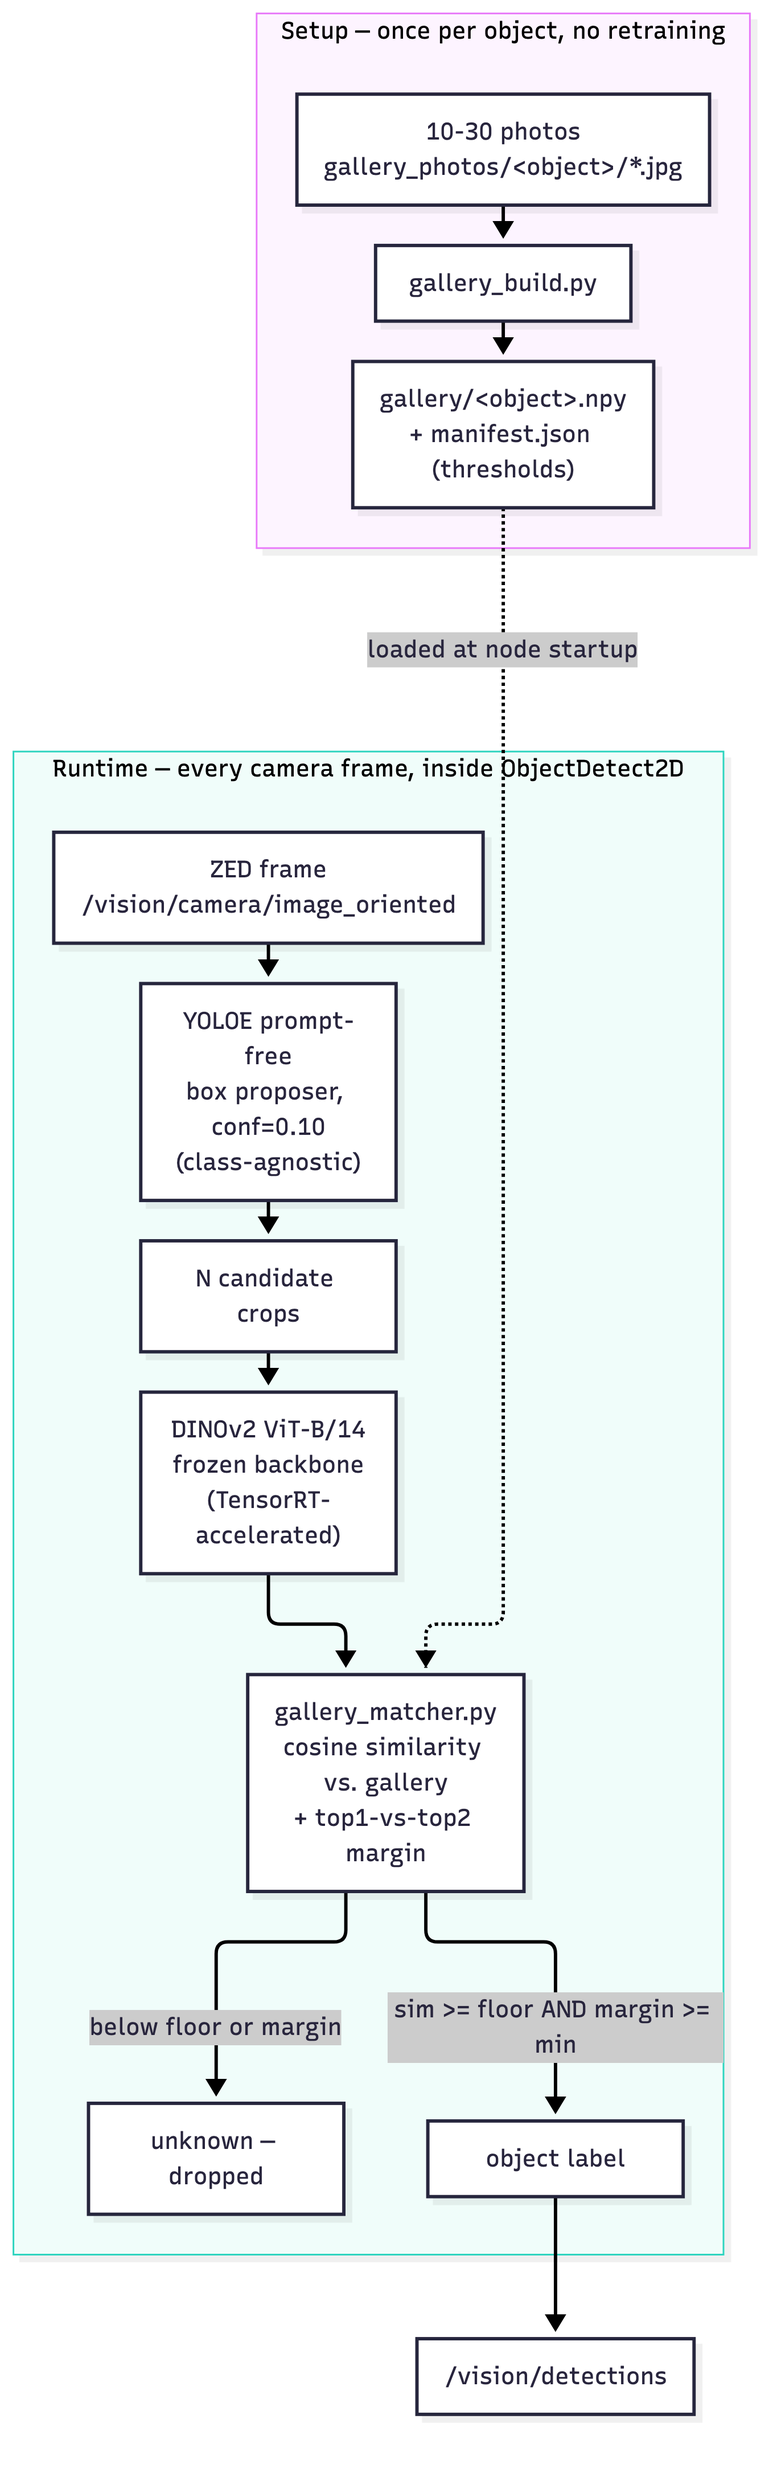
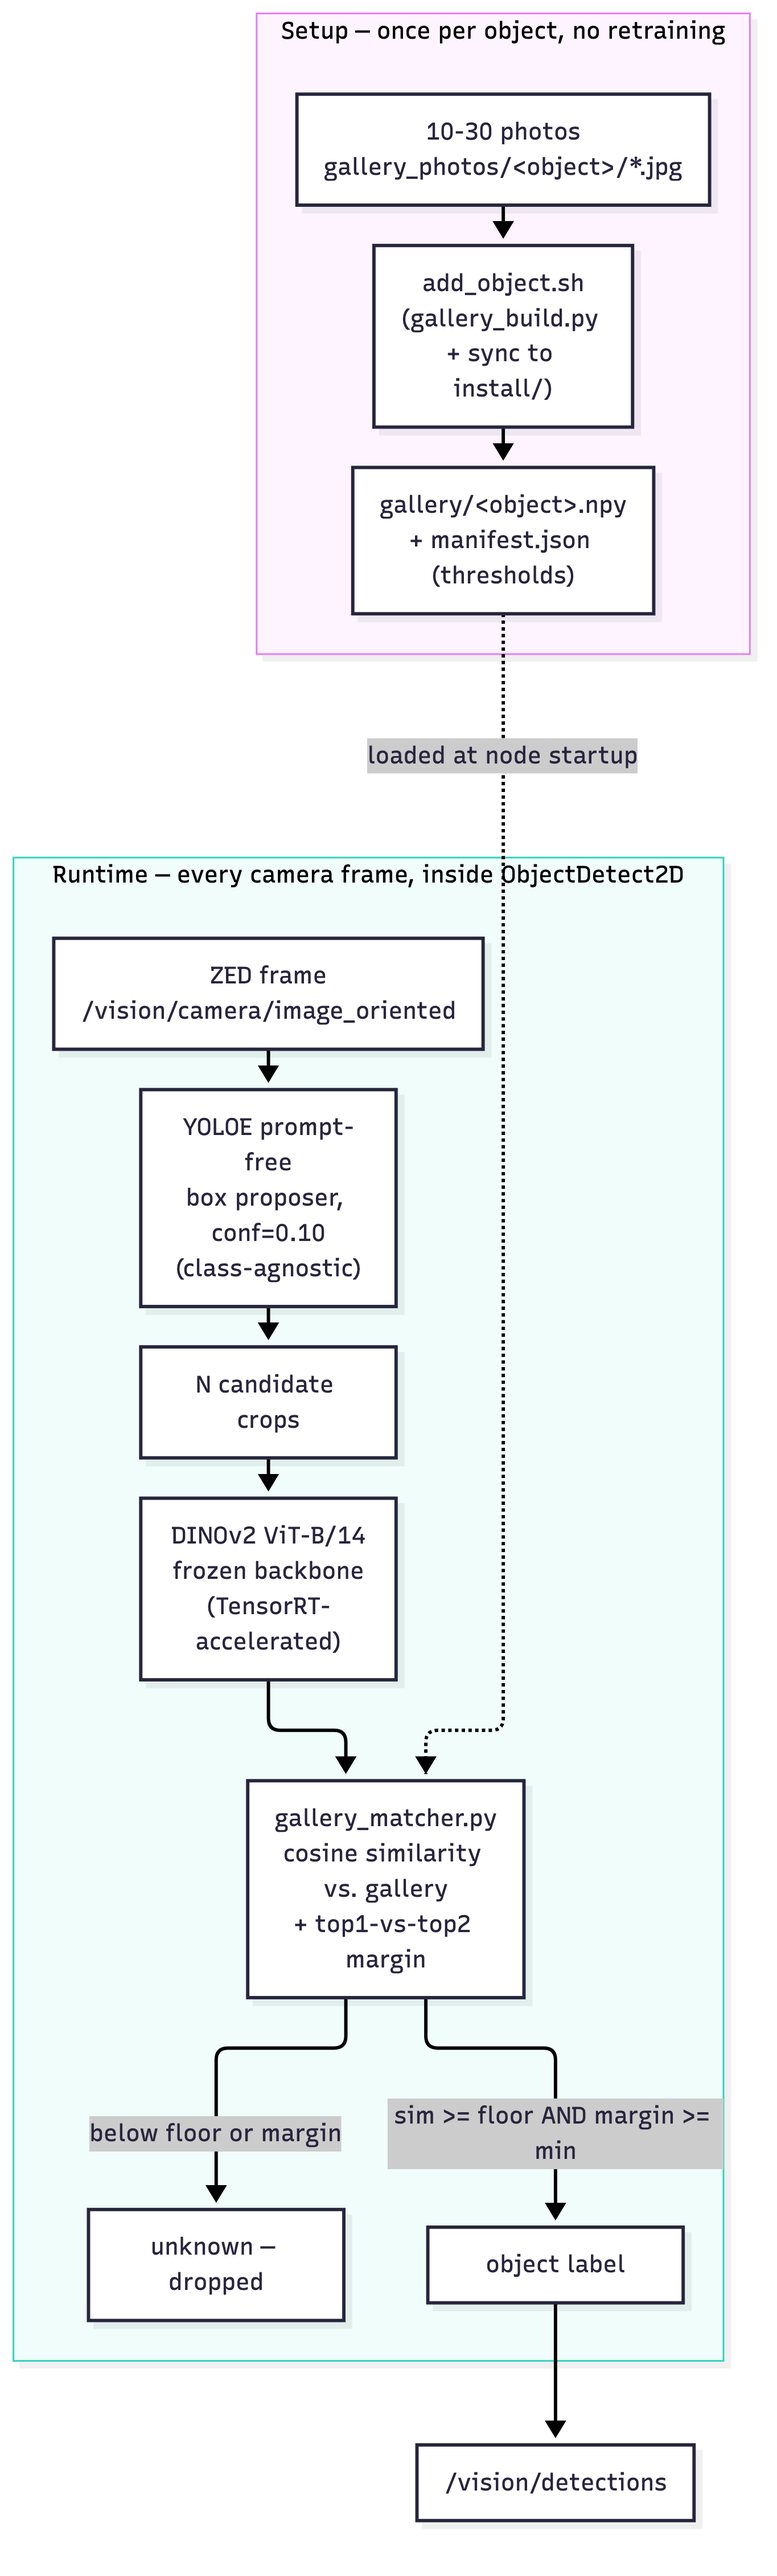
add .sh and doc

diff --git a/vision/benchmarks/embedding_gallery/README.md b/vision/benchmarks/embedding_gallery/README.md
@@ -24,7 +24,7 @@ every camera frame:
 flowchart TD
     subgraph SETUP["Setup — once per object, no retraining"]
         direction TB
-        P["10-30 photos<br/>gallery_photos/&lt;object&gt;/*.jpg"] --> GB["gallery_build.py"]
+        P["10-30 photos<br/>gallery_photos/&lt;object&gt;/*.jpg"] --> GB["add_object.sh<br/>(gallery_build.py + sync to install/)"]
         GB --> NPY["gallery/&lt;object&gt;.npy<br/>+ manifest.json (thresholds)"]
     end
 
@@ -210,30 +210,30 @@ Steps:
 mkdir -p gallery_photos/<object_name>
 # ...copy 10-30 photos in (see "Capture conditions" above)...
 
-python3 gallery_build.py \
-  --object <object_name> \
-  --photos "gallery_photos/<object_name>/*.jpg" \
-  --gallery-dir gallery/
+./add_object.sh <object_name>
+# equivalent to: --photos "gallery_photos/<object_name>/*.jpg"
 ```
 
-No `--backbone` needed — it defaults to whatever `MODEL_CONFIGS["embedding_gallery"]["backbone"]`
-in `registry.py` uses (single source of truth), and refuses to write (rather
-than silently corrupt the gallery) if the new object's embedding dimension
-doesn't match the rest — the failure mode that motivated that guard was
-exactly a mismatched `--backbone` flag. `embedding_gallery` is already in
-`config/parameters.yaml`'s `models:` list, so a plain node restart is all
-that's needed after this — no code change, no rebuild of anything *code*-
-related.
+`add_object.sh` builds the gallery entry **and** syncs it into `install/` in
+one step (see the gotcha below for why that second part is required — skip
+it and the new object silently never shows up). It does not restart the
+node; that part is still manual, on purpose. No `--backbone` needed — it
+defaults to `MODEL_CONFIGS["embedding_gallery"]["backbone"]` in
+`registry.py` (single source of truth), and refuses to write if the new
+object's embedding dimension doesn't match the rest. `embedding_gallery` is
+already in `config/parameters.yaml`'s `models:` list, so a plain node
+restart is all that's needed afterward — no code change, no rebuild.
 
-**Critical gotcha (found the hard way, 2026-09-28): `colcon build` does NOT
-re-sync `gallery/` into `install/`.** A ROS2 ament_python package's
-installed copy (`install/object_detector_2d/lib/object_detector_2d/detectors/gallery/`)
-is populated once, whenever `gallery/` last happened to exist at build time,
-and colcon has no reason to know a gitignored runtime data directory changed
-— it only tracks source `.py` files. Running `gallery_build.py` against the
-**source** tree's `gallery/` (`vision/packages/object_detector_2d/scripts/detectors/gallery/`)
-therefore has **zero effect** on a node running from `install/` until that
-directory is manually re-synced:
+**Critical gotcha `add_object.sh` exists to paper over (found the hard way,
+2026-09-28): `colcon build` does NOT re-sync `gallery/` into `install/`.** A
+ROS2 ament_python package's installed copy
+(`install/object_detector_2d/lib/object_detector_2d/detectors/gallery/`) is
+populated once, whenever `gallery/` last happened to exist at build time,
+and colcon has no reason to know a gitignored runtime data directory
+changed — it only tracks source `.py` files. Running plain `gallery_build.py`
+against the **source** tree therefore has **zero effect** on a node running
+from `install/` until that directory is manually re-synced — which is
+exactly what `add_object.sh` automates:
 
 ```bash
 rm -rf install/object_detector_2d/lib/object_detector_2d/detectors/gallery
@@ -241,18 +241,14 @@ cp -r vision/packages/object_detector_2d/scripts/detectors/gallery \
       install/object_detector_2d/lib/object_detector_2d/detectors/gallery
 ```
 
-Symptoms if you skip this: the node loads and runs fine, logs a plausible
-`gallery=N objects`, and your new object simply never appears in
-`/vision/detections` — silently, no error, no crash, because the stale
-install-side gallery is internally consistent with itself, just not with
-what you just built in source. `gallery_build.py`'s dimension guard can't
-catch this either: it runs once, at write time, against the source tree —
-it has no way to know a *different*, already-loaded copy exists elsewhere.
-Re-running `colcon build` does **not** fix it. Verify what a running node
-actually has loaded with `ros2 topic echo /vision/detections_image`
-(annotated frame) or by adding a one-off
-`print(sorted(self.gallery.thresholds))` in `embedding.py`'s `load()` if in
-doubt.
+Symptoms if this ever gets skipped (e.g. a different install layout
+`add_object.sh` doesn't recognize): the node loads and runs fine, logs a
+plausible `gallery=N objects`, and the new object silently never appears in
+`/vision/detections` — no error, no crash, because the stale install-side
+gallery is internally consistent with itself, just not with what was just
+built in source. Re-running `colcon build` does **not** fix it. Verify what
+a running node actually has loaded with `ros2 topic echo
+/vision/detections_image` (annotated frame) if in doubt.
 
 ## Adapting to a new dataset
 
